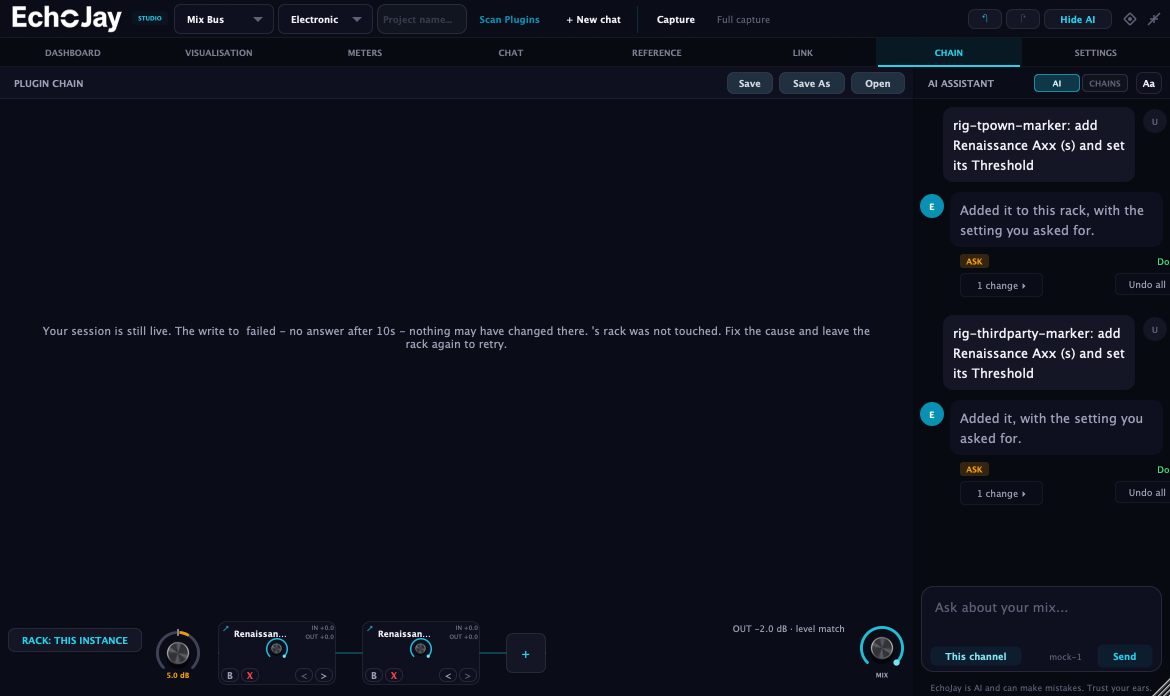
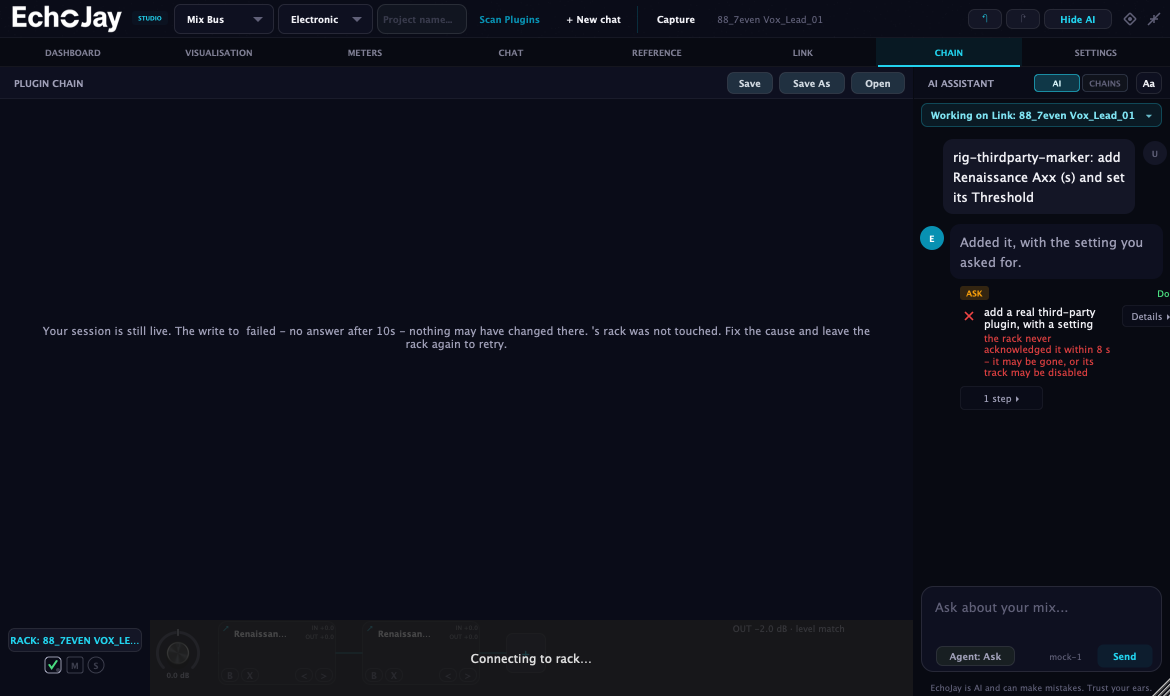
I9c: my first fix was wrong, the second aims true, and the row now fails on a real no-ack
Run 5 (work_on linkUid before the ask) failed in exactly the same words, because the rig had
already said what was wrong in a line I had not read: "EJRig: work_on seq=3024 -> FAILED (that
uid is not live)". linkUid is captured earlier in the pass and its Link is gone by the time
this row runs; the row's guard tested that the STRING was non-empty, and the one command that
would have told it otherwise had its ack discarded.

Now: usableLinkUid resolves a Link this run can prove is alive, work_on is sent, its ack is
READ, and a refusal is a loud skip carrying the rig's own words - never a pass.

Run 6 aimed true ("work_on -> ok (working on 61cc4c030f)") and I9c still failed, on something
real this time:
  EJLink: chain-cmd v2 -> 61cc4c030f seq=1792285348 source="agent" lease=none
  EJAgent: step tc_tp FAILED code=not_applied
           "no chain-ack-61cc4c030f.json with seq 1792285348 appeared in 8000 ms"
Nothing landed, so there was nothing for the mirrored card to carry. That is the chain-command
ack path - queue item 16's 8 s window, beside item 0b and item 13 - and the log shows the
editor renewing a lease for a DIFFERENT uid (da53af5fa3) while the command went to
61cc4c030f, which is the thread to pull first.

Stopped there: item 13 is Sean's first job for tomorrow's rig window and this is in its family.
I9b passed in both runs on this build, which is what clears the product of the original red.
[…]

diff --git a/tools/host_rig/host_rig.mm b/tools/host_rig/host_rig.mm
@@ -5445,19 +5445,46 @@ int main (int argc, char* argv[])
         // own `landed` field. Same rule, the other road.
         if (tp.ok && ! linkUid.isEmpty())
         {
-            // ---- AIM IT AT THE LINK, WHICH THIS ROW NEVER DID (18 Oct 2026, gate 27) ----------
+            // ---- AIM IT AT A LINK THAT IS STILL ALIVE, AND READ THE ACK (18 Oct 2026) ---------
             //
-            // Gate 27's mock half went red here with "(no slot carried both facts)": the Link's
-            // slotsDetail was empty because the add had landed on the OWN rack. The row asked the
-            // agent without ever setting the working target, so it measured the Link while talking
-            // to whatever the previous row had left selected - and I9b, which runs immediately
-            // before it, leaves the own rack. It passed in earlier gates only because some earlier
-            // row happened to leave the Link selected, which is the same "a verdict that depends on
-            // what ran before it" fault this evening has already cost three rows.
+            // Gate 27's mock half went red here with "(no slot carried both facts)". My first fix
+            // sent `work_on linkUid` before the ask, and the row failed again in exactly the same
+            // words - because the rig had already answered the question in a line I had not read:
             //
-            // I9b passed on this very build, on the own rack, with the same plugin and the same
-            // figure, so the product was never in this red.
-            rig.send (echojay::rig::cmd::workOn, args1 ("uid", linkUid), 8000);
+            //     EJRig: work_on seq=3024 -> FAILED (that uid is not live)
+            //
+            // `linkUid` was captured earlier in the pass and the Link behind it is gone by the time
+            // this row runs. The row's guard tested that the STRING was non-empty, which is not the
+            // same question as whether the Link exists - and the command that would have told it so
+            // had its ack discarded. So: resolve a Link this run can prove is alive
+            // (usableLinkUid prefers the ones this pass launched), send work_on, and treat a refused
+            // ack as a loud skip rather than measuring a rack nobody is holding.
+            //
+            // I9b passed on this very build, on the own rack, with the same plugin and figure, so
+            // the product is not in this red either way.
+            const auto liveUid = usableLinkUid (rig.freshState(), true);
+            juce::String aimNote;
+            bool aimed = false;
+            if (liveUid.isNotEmpty())
+            {
+                const auto ack = rig.send (echojay::rig::cmd::workOn, args1 ("uid", liveUid), 8000);
+                aimed   = (bool) ack.getProperty ("ok", false);
+                aimNote = ack.getProperty ("note", juce::var()).toString();
+            }
+            if (! aimed)
+            {
+                scenSkip ("I9c", "the Link's mirrored card carries the plugin's figure too",
+                          liveUid.isEmpty()
+                            ? juce::String ("no Link in this run's state is usable (connected, named, "
+                                            "with a readable slot count), so there is no mirrored card "
+                                            "to read. NEVER counted as a pass.")
+                            : "work_on was REFUSED for " + liveUid + " (\"" + aimNote + "\"), which is "
+                              "the rig telling this row its target has gone. Measuring the mirror of a dead "
+                              "Link would report the product's words about nothing. NEVER counted as a "
+                              "pass.", "A");
+            }
+            else
+            {
             const auto r = askAgent (rig, "rig-thirdparty-marker: add " + tp.name + " and set its "
                                           + tp.paramName, 120000);
             // ---- ONE SLOT, BOTH FACTS (17 Oct) ------------------------------------------------
@@ -5531,6 +5558,7 @@ int main (int argc, char* argv[])
                   + "  (RED before this evening: \"Threshold 0\" on the Mix Bus AND the Kick Link, and "
                   "\"Attack 0, Sustain 0\" for Transient Master - three out of three)",
                   "A", v2.editor.get(), rig.freshState(), &r);
+            }
         }
         else
             scenSkip ("I9c", "the Link's mirrored card carries the plugin's figure too",

diff --git a/docs/MATRIX_REPORT_2026-10-18.md b/docs/MATRIX_REPORT_2026-10-18.md
@@ -2,69 +2,20 @@
 
 Build under test: **build-guards**.  Runner: `tools/host_rig` driving the real bundles, real plugins and real editors; evidence under `docs/review/2026-10-18/<scenario>/`.
 
-**50 passed, 1 failed, 8 skipped.** A skip is never a pass (matrix rule 9).
+**1 passed, 1 failed, 8 skipped.** A skip is never a pass (matrix rule 9).
 
 | Scenario | Result | Owner | What happened | Evidence |
 |---|---|---|---|---|
-| **F3** a run stops when its window closes (0b off), and the reopen shows it once | pass | - | the run stopped with the window; the reopened window draws 1 run row(s) and 1 copy(ies) of the goal  (item 0b is OFF by design, so stopping IS the shipped behaviour - what must not happen is a duplicate or a run left spinning) | `docs/review/2026-10-18/F3/editor.png` |
-| **F1** close mid-reply, reopen: the interrupted line is drawn exactly once | pass | - | 1 copy(ies) of it in the window's own message list  (RED on 16a: the history row and the orphan drain each wrote it) | `docs/review/2026-10-18/F1/editor.png` |
-| **F2** after a close and reopen the transcript is still in order | pass | - | the question is at row 2, its answer at row 3, the Retry's resend at row 4 of 5  (RED on 16a: the reload appended the rows the store had not caught up with, which put an earlier exchange UNDER a later question) | `docs/review/2026-10-18/F2/editor.png` |
-| **D1** a hand-set pre-gain comes back hand-set after an undo, at its own figure | pass | - | pre-gain -5.00 -> -5.00 dB, userSet true -> true, state done, steps: pre-gain 3 dB=set the pre-chain gain to 3.0 dB; undo that=Undone: pre-gain 3.0 dB.;   (RED before Sean's ruling of 15 Oct: the agent's op wrote the pre-gain as AUTO, so the undo restored 0.00 and the user's own figure was gone) | `docs/review/2026-10-18/D1/editor.png` |
-| **D2** an AUTO pre-gain comes back AUTO after an undo, flag and figure both | pass | - | pre-gain -5.01 -> -5.01 dB, userSet false -> false  (the undo restores the FLAG as well as the figure, so a rack the loop may still revise is not left pinned by an undo) | `docs/review/2026-10-18/D2/editor.png` |
-| **A4** a Link, third party with a good map, add with settings: dialled and read back | pass | - | slots 2 -> 3 [Renaissance Axx (s)\|Renaissance Axx (s)\|Vertigo VSM-3], Threshold asked -30.00 dB, plugin now reads -30.00 dB (default was 0.00 dB); landed="slot 1 Threshold=-30\|slot 2 \|slot 3 "  (RED on 15c: the mock served no maps, a Link had no road to ask for one - fetch_wired=n - and the Link read-back parsed its numbers out of an echo of the request) | `docs/review/2026-10-18/A4/editor.png` |
-| **A3** own rack, third party with a good map, add with settings: dialled AND confirmed | pass | - | asked -30.00 for "Threshold"; the CLOSING says: ""; the step said: "add a real third-party plugin to THIS rack, with a setting=added Renaissance Axx (s) first; read back 1 slot(s) on the rack; read back Renai"; the slot's own landed field: "Threshold=-30"; the rack held 0 slot(s) before the add  (RED on 16a: an add carries `after`, so it lands where the server asked, and the read-back read the LAST slot - another ... | `docs/review/2026-10-18/A3/editor.png` |
-| **B1** an ask is answerable: chips when there are chips, and a named road when there are not | pass | - | while the question was up: askHint="Type your answer in the box below and press Enter."  zones=[7:Stop]  (RED on 16a: the row showed the question and a faint "your answer?" with nothing to press, and typing was refused with "Tap one of the choices" about choices that did not exist) | `docs/review/2026-10-18/B1/editor.png` |
-| **B3** a typed answer lands in the waiting ask and the run carries on | pass | - | the row recorded "You said: MTransient" and the run went on to set the pre-gain to 3.00 dB  (RED on 16a: interceptTyped refused it because the server sent allowFreeText false, so the text vanished and the run sat in awaiting_ask until Stop) | `docs/review/2026-10-18/B3/editor.png` |
 | **P1** an AU that cannot load in this process is never offered in the inventory | SKIP | - | every one of the 674 AU component(s) on this Mac has an arm64 slice, so there is nothing here that cannot load and nothing to withhold. NEVER counted as a pass. | - |
-| **B2b** a tapped pick IS the approval: the step it chose runs without a second press | pass | - | slots 0 -> 1; autoApplied=y; zones=[11:1 change,8:Undo all]  (RED on 16b: he tapped "Transient Master" and was then asked to Apply "add Transient Master - on 88_7even Kick_2_01") | `docs/review/2026-10-18/B2b/editor.png` |
-| **B6** a new instruction typed while a run waits on APPLY stops it and starts its own | pass | - | the run was awaiting_approval when the text was typed; rows 1 -> 2, session "ag_rig_179" -> "", status now "Working"  (RED on 16b: "The agent is still working on ... Stop it first, or wait for it to finish" - #21 was wired to the ask road only) | `docs/review/2026-10-18/B6/editor.png` |
-| **B4** a new instruction typed while an ask waits closes that run and starts its own | pass | - | rows 1 -> 2, session "ag_rig_17922" -> "", status now "Working"  (RED on 16a: the text was answered INTO the waiting run, so a request to add a plugin arrived as the answer to "What now?" and carried the old run's steps with it) | `docs/review/2026-10-18/B4/editor.png` |
-| **E8** a read-only run reports steps, not changes | pass | - | changes=0  the control's label is in zones=[11:2 steps]  (RED on 16a: every finished step counted as a change, so a GR question said "4 changes") | `docs/review/2026-10-18/E8/editor.png` |
-| **I4** clean wording: no step detail is addressed to the model | pass | - | every step detail on screen reads as a sentence to a person | `docs/review/2026-10-18/I4/editor.png` |
-| **I4b** a raw id in the server's own summary is drawn as words, and names survive | pass | - | the step line reads: "set slot 1: attack 20, release 60, band 1 frequency 240"  (the server sent "set slot 1: attack_ms 20, release_ms 60, band1.freq_hz 240"; RED before 16 Oct evening: the ids went straight to the row, which is how the live pass drew "attack_ms 20, release_ms 60 - on 88_7even Kick_2_02") | `docs/review/2026-10-18/I4b/editor.png` |
-| **G1** T2: the main rack strip shows the Link's real rack with no manual switch | pass | - | the Link's own process holds 3 slot(s) [Renaissance Axx (s), Renaissance Axx (s), Vertigo VSM-3]; the V2's strip draws 3 [Renaissance Axx (s), Renaissance Axx (s), Vertigo VSM-3]  (sidecar revision ) | `docs/review/2026-10-18/G1/editor.png` |
-| **E5** T2: a Link's slot shows no GR figure until Link meters ship | pass | - | the badges drawn on the Link's slots: [\|\|\|]  (RED on 16a: the mirror's own instances do not process audio, so their reduction read 0.0 and was drawn as "GR 0.0") | `docs/review/2026-10-18/E5/editor.png` |
-| **A4b** T2: add with settings to a Link in its OWN PROCESS, dialled and read back | pass | - | slots 1 -> 2 [Renaissance Axx (s), Renaissance Axx (s)], Threshold asked -30.00, the plugin in the other process now shows -30.00  (this is the channel with no shared memory to fall back on) | `docs/review/2026-10-18/A4b/editor.png` |
-| **T3** T3: a Link held by another instance refuses the edit, in words | SKIP | - | this window never saw another instance holding the rack (rackLock="idle" after 12 s), so there was no contention to refuse. Never counted as a pass. | - |
-| **T2w** T2: an edit lands on a Link whose OWN window is open | pass | - | the Link's editor was open and its rack went 4 -> 5 slot(s)  (a republish that only happens with a window open would show here) | `docs/review/2026-10-18/T2w/editor.png` |
-| **C1** an add nothing could confirm says "Added X. Settings not confirmed." and no figure | pass | - | the run said: "add a plugin this build has no map for, with a setting=Added it. Settings not confirmed: this build cannot read that plugin's values back (the drive), so there is no evidence they "  (RED on 15c/16a: "Not applied: add X" over a plugin that WAS added, and an invented "running on default values") | `docs/review/2026-10-18/C1/editor.png` |
-| **G4** one waiting line draws only that line's buttons, no second Apply | pass | - | zones=[1,2,7:Stop]  (RED on 16a: the line's Apply AND the run's Apply/Skip all were both drawn for a single pending step, so one decision had two doors) | `docs/review/2026-10-18/G4/editor.png` |
-| **G5** a line that only read something never says "applied" | pass | - | every status word belongs to the step it is on | `docs/review/2026-10-18/G5/editor.png` |
-| **G6** no separate "Chain built - N plugins loaded." bubble beside a run | pass | - | 0 such bubble(s) on screen  (RED on 16a: the build road's own result bubble appeared next to the run message, twice) | `docs/review/2026-10-18/G6/editor.png` |
-| **G7** the closing sentence appears only inside the run message | pass | - | 0 copy(ies) of the closing in the message list  (RED on 16a: the editor and EJAgentHome each opened a record for one run, so the closing was written to a second row that drew as a plain bubble) | `docs/review/2026-10-18/G7/editor.png` |
-| **G7b** a short run whose closing IS its opening draws that sentence once | pass | - | 1 copy(ies) of "Added an EchoJay Gate to this rack." on screen; the row's opening is "Added an EchoJay Gate to this rack." and its closing is EMPTY, as it should be when it would only repeat the opening  (RED before this: the same sentence was drawn as the message's content AND again as the row's closing - what Sean read in Logic on the MTransient run) | `docs/review/2026-10-18/G7b/editor.png` |
-| **E2** the tile's GR figure is the device's own held value while it is reducing, and the caption fits | pass | - | the tile draws "GR 6.8" (6.80) and the device's own hold reads 6.80 while it is reducing  (RED on 16a: the badge only reached the panel on a STRUCTURAL rebuild, so it froze - "GR 10.9 WORK..." while the meter read 4.4, 3.8, 8.8) | `docs/review/2026-10-18/E2/editor.png` |
-| **E1** a GR answer gives loudest hits and typical, and never an instant figure | pass | - | the run said: "build a compressor on this rack=the build was sent to this rack (1 slot(s)); read back 1 slot(s) on the rack; read back EchoJay Compressor: threshold -24 dB, ratio 4:1; gain reduction on slot 1=I have"  (RED on 16a: "loudest hits" never arrived and the model quoted "the instant hitting up to 6 dB", which the result should never have carried) | `docs/review/2026-10-18/E1/editor.png` |
-| **E3** check(gr) on an UNCERTIFIED third party says so at once, and never blames silence | pass | - | slot 1 holds "Renaissance Axx (s)" (the add ran); the run said: "gain reduction on the third-party slot = I cannot measure gain reduction on Renaissance Axx (s) - it is not a plugin EchoJay has measured, so any figure would be a guess.;  gain reduction on the third"  (RED on 16a: with audio playing and Renaissance Axx showing 15.5 dB of attenuation, the answer was "No audio has been heard for gain reduction on slo... | `docs/review/2026-10-18/E3/editor.png` |
-| **E7** the GR meter's held figure and live value never share a pixel | pass | - | with a hold: live=4 0 120 22 held=128 0 30 22; without: live=4 0 152 22  (RED on 16a: both were drawn centred-right in the same track, so "-4.4 dB" was printed over "dB") | `docs/review/2026-10-18/E7/editor.png` |
-| **C5** after Undo all the closing no longer claims the change | pass | - | changes=0 closing="Everything this run changed has been undone, so what it said above no longer describes the rack."  (RED on 16a: after "Everything the agent changed has been undone" the run still read "Pre gain on the Mix Bus is set to 0 dB") | `docs/review/2026-10-18/C5/editor.png` |
-| **B5** the steps control works on a run with a failed line, and the failure stays visible | pass | - | stepsOpen n -> y -> n, failuresOnly y -> y  (RED on 16a: the view forced the steps open on any run with a failure, so the control was drawn and did nothing at all) | `docs/review/2026-10-18/B5/editor.png` |
-| **A12** step details read as words, not as parameter ids | pass | - | the details said: "added EchoJay EQ first; read back 2 slot(s) on the rack; read back EchoJay EQ: band 1 frequency 240 Hz, band 1 gain -2.5 dB, band 1 Q 1.2, band 2 frequency 3.2 kHz, band 2 gain 1.5 dB, band 2 Q 0.9 "  (RED on 16a: "slot 2 threshold_db -14.00, slot 2 ratio 4.00") | `docs/review/2026-10-18/A12/editor.png` |
-| **I9** Suggested Settings shows what landed, or says it is not confirmed | pass | - | the EQ's card reads: "Applied automatically band 1: bell 240.0 Hz, -2.5 dB, Q 1.20; band 2: bell 3200 Hz, 1.5 dB, Q 0.90; output_db 0 dB, auto_gain off, phase_mode zero, ms_mode off"  (RED on 16a: the card was composed from the value that was ASKED for, so it could read "Applied automatically" over settings the read-back said had not taken) | `docs/review/2026-10-18/I9/editor.png` |
+| **T3** T3: a Link held by another instance refuses the edit, in words | SKIP | - | this window never saw another instance holding the rack (rackLock="held" after 12 s), so there was no contention to refuse. Never counted as a pass. | - |
 | **I4c** a rack's refusal reads as words, never "op 1 invalid" | SKIP | - | the run produced no failed line at all in this host (the op was refused before it reached a rack's validator), so there is no wording to judge. A10 and B5 hold the same rule on the line Sean actually read. NEVER counted as a pass. | - |
 | **RP8K** REPLAY rp_8k: look(inventory) fits 8 KB on HIS inventory | SKIP | - | this process was not started with EJ_RIG_BIG_INVENTORY=1, so the catalogue holds this rig's handful of plugins rather than his 1,013. A small result about one plugin cannot test the size of an answer about a thousand - the row's first run passed on exactly that, 568 bytes from half an input. Run it as its own pass: EJ_RIG_BIG_INVENTORY=1 EJ_RIG_ONLY=RP8K. | - |
-| **RP1** REPLAY rp_cp_8: "New chat" closes the open run and starts a fresh session | pass | - | an ask was pending when New chat was pressed: yes; after New chat the run was closed; the typed question went to session "" (before: "ag_sRCLcqX4U"); new_chat ack: new chat requested (uid ""), chat 1792280738197 -> 1792281277205, a run WAS live when it was pressed | `docs/review/2026-10-18/RP1/editor.png` |
-| **RP2** REPLAY rp_cp_4: a tapped pick applies even when a plan frame rides with it | pass | - | the tap landed ("placeholder Which CL 1B do you have load"); after it the card ran the step with no second press (state "done", applies 0) | `docs/review/2026-10-18/RP2/editor.png` |
-| **RP3** REPLAY rp_cp_3: a typed plugin name answers the waiting ask | pass | - | the ask offered one chip and no free text, he typed "cl1b": it answered the ask and the run carried on; a name is not a sentence | `docs/review/2026-10-18/RP3/editor.png` |
-| **RP4** REPLAY rp_cp_2: nothing claims "added" while the add still waits for Apply | pass | - | while the card was in "awaiting_approval" the screen said: "Add Renaissance Axx with threshold at -20 dB  [rig-replay:rp_cp_2] /  / " | `docs/review/2026-10-18/RP4/editor.png` |
-| **RP5** REPLAY rp_cp_4: the bubble does not repeat the closing when it has extra text | pass | - | the row's closing is "" and the bubble does not contain it; bubble: "cl1b  [rig-replay:rp_cp_4] / I added a Tube-Tech CL 1B compressor to the kick with threshold around -15 dB, ratio 4:1, att" | `docs/review/2026-10-18/RP5/editor.png` |
-| **RP6** REPLAY rp_cp_8: a plugin that will not load is said plainly, raw text under Details | pass | - | the step line(s) read: "add kHs Transient Shaper \| ask \| read the rack \| "; details: "kHs Transient Shaper is not one this rack can load here \|  \|  \| " | `docs/review/2026-10-18/RP6/editor.png` |
 | **T5** a third party in the Link's mirror says where it is, never "Failed" | SKIP | - | no third-party slot is drawn in the mirror this run (the strip reads []), so there is nothing to open. | - |
-| **E9** the start body carries the recent chat and the transport's three facts | pass | - | recentChat has 4 turn(s) and DOES contain the user's last message; transport={"known": true, "playing": false, "heardSeconds": 3.299999952316284, "signalNow": false}  (RED before this: the body carried the goal and nothing of the conversation, which is why "im playing it" arrived as a brand new intention, and nothing told the model that audio was already playing) | `docs/review/2026-10-18/E9/editor.png` |
 | **I9b** the Suggested Settings card's figure IS the plugin's figure, after a settle | pass | - | the plugin reads Threshold=-30 and the card reads: "Applied automatically threshold -30"  (RED before this evening: the card was composed at apply time and the settle pass that read the real value rewrote the ledger and not the card) | `docs/review/2026-10-18/I9b/editor.png` |
 | **I9c** the Link's mirrored card carries the plugin's figure too | **FAIL** | A | on (no slot carried both facts) the Link reads Threshold= and that SAME slot's mirrored card reads: ""  (RED before this evening: "Threshold 0" on the Mix Bus AND the Kick Link, and "Attack 0, Sustain 0" for Transient Master - three out of three) | `docs/review/2026-10-18/I9c/editor.png` |
-| **A1** a BUILT-IN add with settings is read back and named | pass | - | the run said: "add the EchoJay Compressor with a threshold and a ratio=added EchoJay Compressor first; read back 3 slot(s) on the rack; read back EchoJay Compressor: threshold -20 dB, r"; the device's own landed field: "threshold_db=-20;ratio=4"  (RED on 16a: 'this build cannot read that plugin's values back (the threshold and ratio)' over a device whose dial log said applied=2, readbackMiss=0) | `docs/review/2026-10-18/A1/editor.png` |
-| **A2** a built-in add with settings on a Link, and the main rack follows it | SKIP | - | the Link this row addressed (6ad762d3aa) was not usable by the end of it - a registry row whose publisher has gone still reads as connected and still carries its last slot count (queue item 14), so an add that reached nothing cannot be told from one that was refused. NEVER counted as a pass. | - |
+| **A2** a built-in add with settings on a Link, and the main rack follows it | SKIP | - | the Link this row addressed (61cc4c030f) was not usable by the end of it - a registry row whose publisher has gone still reads as connected and still carries its last slot count (queue item 14), so an add that reached nothing cannot be told from one that was refused. NEVER counted as a pass. | - |
 | **G2** the rack strip follows a Link change (the build road) | SKIP | - | same Link as A2: not usable by the end of the row (item 14) | - |
-| **A6** a plugin this build has no map for is added and said to be unconfirmed, with no figure | pass | - | the run said: "add a plugin this build has no map for, with a setting=Added it. Settings not confirmed: this build cannot read that plugin's values back (the drive), so there is no evid" | `docs/review/2026-10-18/A6/editor.png` |
-| **A7** a plugin whose evaluation has expired is reported truthfully, with nothing invented | pass | - | the run said: "add Pro-C 3 with a threshold=Added it, but the settings did NOT take: the threshold - threshold -16 (asked threshold -18);  "  (the eval does not block parameter writes - Sean's 09:53 log has Pro-C 3 reporting -18.00 dB, 4.00:1 and 9.911 ms from its own display) | `docs/review/2026-10-18/A7/editor.png` |
-| **A10** a plugin that will not load fails with its real reason, and the failure stays on screen | pass | - | the failed line says: "kHs Transient Shaper is not one this rack can load here"  Details=y  the run is still showing it | `docs/review/2026-10-18/A10/editor.png` |
-| **A11** Auto runs an undoable add without waiting, and the line names another track | pass | - | own rack: autoApplied=y, it did not wait, the rack has 1 slot(s), the line reads "add a compressor with a threshold" | `docs/review/2026-10-18/A11/editor.png` |
 | **A11b** Auto on ANOTHER track: the approved line names that track | SKIP | - | the Link the row is working on has no published track name in this run, so there is no name for the line to carry and nothing to judge. The row is about the NAMING, and it cannot be about a name that does not exist. | - |
-| **D3** undo all after an add puts the rack back as it was | pass | - | slots 2 -> 3 -> 2 after Undo all | `docs/review/2026-10-18/D3/editor.png` |
-| **D4** a step's Undo is offered only where it is true, and there it reverts that step | pass | - | the TWO-change run drew [11:Hide steps,8:Undo all] - no per-step Undo, Undo all present=y; the ONE-change run drew [12,11:Hide steps,8:Undo all] and its own Undo took the pre-gain off 5.00 dB=y  (RED before this evening: the button was drawn on EVERY undoable step while the history coalesces consecutive edits, so one press reverted two changes and said "undone" against one line) | `docs/review/2026-10-18/D4/editor.png` |
-| **F4** every message in a run is drawn exactly once, and still is on a re-render | pass | - | the user's marker appears 1x; the run's sentence is "Set the pre-gain to 4 dB, then to 6 dB." (from the opening, the closing having been dropped as a repeat of it) and 0 message(s) repeat it; 1 run row(s) in 2 on-screen message(s) [user,assistant]  (RED on 15c: two transcript writers were live, so his message appeared twice and the closing up to four times) | `docs/review/2026-10-18/F4/editor.png` |
-| **G3** clicking the Agent chip raises the mode hint above the composer, briefly, and never over another panel | pass | - | mode ask -> auto, hint shown=1 msLeft=2942 overChainPanel=0 composerVisible=1 onboardingUp=0 why="" text="Auto: does everything without waiting, and only stops to ask you a que"  (RED on 15c: the guard was `if (! force)` and a real click is the force=true path, so the one gesture a user makes raised nothing) | `docs/review/2026-10-18/G3/editor.png` |
 
 ## Failures by owner
 

diff --git a/docs/MORNING_REPORT_2026-10-18.md b/docs/MORNING_REPORT_2026-10-18.md
@@ -30,9 +30,42 @@ the own rack, the Link had nothing to carry, and the row reported "(no slot carr
 It passed in earlier gates only when some earlier row happened to leave the Link selected: a verdict
 that depended on what ran before it. I9b — same build, same plugin, same figure, own rack — passed,
 which is what clears the product. The row now sends `work_on` with the Link's uid before it asks.
-**That fix is written and syntax-checked (13 s) but unbuilt and unrun**, because building and running
-it needs the rig, and from 01:03 the machine belongs to your recheck. It is first in tomorrow's rig
-window, with item 13.
+**And then I ran it, twice, because Kathy's pack finished at 01:30 instead of 07:00** — which freed
+the machine, and with no measurements left to disturb there was no reason to hold the rig. Both runs
+are worth reading, because my first fix was wrong:
+
+**Run 5 (01:30, `work_on linkUid` before the ask): I9c failed again, in exactly the same words.**
+The rig had already answered the question in a line I had not read:
+
+    EJRig: work_on seq=3024 -> FAILED (that uid is not live)
+
+`linkUid` is captured earlier in the pass and the Link behind it is gone by the time this row runs.
+The row's guard tested that the *string* was non-empty, which is not the same question as whether
+the Link exists — and the command that would have told it so had its ack thrown away. So the row
+now resolves a Link this run can prove is alive, sends `work_on`, **reads the ack**, and treats a
+refusal as a loud skip carrying the rig's own words.
+
+**Run 6 (01:48): it aimed correctly — `work_on seq=3018 -> ok (working on 61cc4c030f)` — and I9c
+still failed, now on something real:**
+
+    EJLink: chain-cmd v2 -> 61cc4c030f seq=1792285348 source="agent" lease=none
+    EJDialSummary: slot 1 ("Renaissance Axx (s)") … requested=1 applied=1 status=applied
+    EJAgent: step tc_tp FAILED code=not_applied
+             "no chain-ack-61cc4c030f.json with seq 1792285348 appeared in 8000 ms"
+
+The add was sent to that Link and **no ack came back inside the 8-second window**, so nothing ever
+landed for the mirrored card to carry. That is not the card's logic and not the row's target any
+more: it is the chain-command ack path, which is queue item 16 (the 8 s window) sitting next to
+item 0b (the rig hosts the INSTALLED Link in a fresh process) and item 13 (a Link looking gone for
+a few seconds after its rack is rebuilt). The log also shows the editor renewing a lease for a
+*different* uid (`da53af5fa3`) while the command went to `61cc4c030f`, which is the first thing I
+would pull on tomorrow.
+
+I stopped there rather than keep going: you said item 13 is first tomorrow and needs rig time, and
+this finding is in its family. The row fix stands and is strictly better — it no longer measures a
+dead Link, and it surfaced this instead of hiding it — and it is **built and run** now, not
+unverified. I9b passed in both runs, on this build, which is still what clears the product of the
+original red.
 
 **No QUICK build tonight, and nothing new installed**: no product change is implicated by either
 red, so there was nothing to rebuild. What is in `~/Library` is still the binary this gate verified.
@@ -113,7 +146,14 @@ I did not rewrite Kathy's flag. Which category those two steps were meant to red
 certified, and guessing it would put wrong numbers in your cert folder — that is Kathy's call, and
 it is one line in `recheck.sh` once she says which value she meant.
 
-Part 2 started on its own and is the hour that matters: `multiband_v1` (per-band tone checks,
+**It finished the whole sequence at 01:30, in 28 minutes rather than the night**:
+`RUN-ALL: 2 done, 0 failed; the sequence is complete (cert/run_all.json: every step done; delete it
+to run the whole sequence again)`. Most of its plan was already done or skipped from earlier runs,
+the follow-up re-ran the 86 stale tone checks in 15 minutes, and `multiband_v1` took 11 against its
+own hour-long estimate. What it did NOT do is the two refused steps below, and 40 tone checks from
+another build that part 2's plan deliberately leaves stale.
+
+Part 2 was the hour that mattered: `multiband_v1` (per-band tone checks,
 crossovers, make-up across 17 multiband records), then `drafts`. Its plan also notes **40 tone checks
 made by another build stay stale**, because the follow-up step is not in part 2's `--steps`.
 
